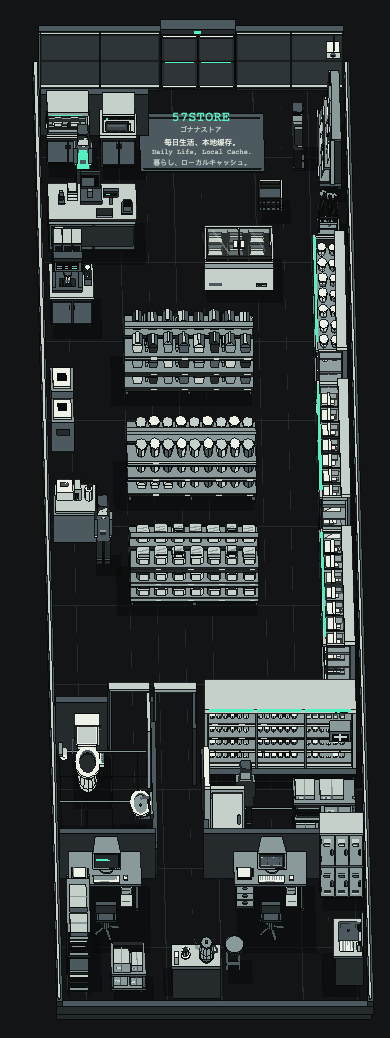
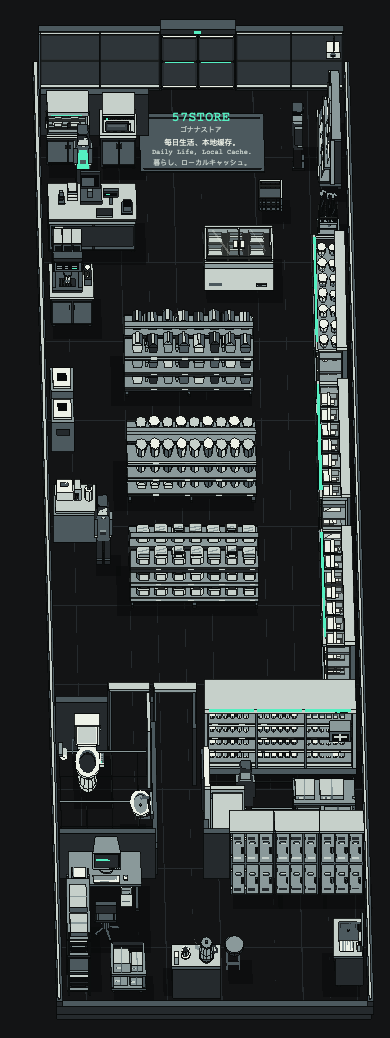
Replace the right workstation with locker banks and unify green links

Changed region(s): [[0.5846, 0.7707, 0.9231, 0.894]]

diff --git a/store/visit.js b/store/visit.js
@@ -1,4 +1,4 @@
-/* Local, touch-first inspections. The three destinations remain normal anchors. */
+/* Local, touch-first inspections. Destinations remain normal anchors. */
 (()=>{
  const room=document.querySelector('.room');if(!room)return;
  const html=document.documentElement,note=room.querySelector('#room-note');

diff --git a/site-assets/links.css b/site-assets/links.css
@@ -1,0 +1,5 @@
+/* Shared text-link treatment, including legacy WordPress inline link styles. */
+body:is(.store-receipt,.store-sys,.store-cctv,.store-cache,.store-fragment) a:any-link{
+  color:var(--wp--preset--color--secondary,#55efc1)!important;
+  text-decoration:none!important;
+}

diff --git a/store/plan.py b/store/plan.py
@@ -141,15 +141,15 @@ def assemble(Scene):
     fan.box(0,0,1.70,.46,.24,.28,'steel');fan.quad([(.04,.245,1.74),(.42,.245,1.74),(.42,.245,1.94),(.04,.245,1.94)],'ink',double=True)
     f=fan.part('fan-blades','fan-spin');f.quad([(.20,.25,1.74),(.26,.25,1.74),(.26,.25,1.94),(.20,.25,1.94)],'paper',double=True)
     f.quad([(.09,.25,1.81),(.37,.25,1.81),(.37,.25,1.87),(.09,.25,1.87)],'paper',double=True)
-    # Only one compact staff room. A straight entrance remains between two desks.
+    # Only one compact staff room. A straight entrance separates the single desk and the locker wall.
     staff=s.model('staff-room',.25,REAR_Y+2.90)
     staff.box(0,0,0,2.13,.12,1.25,'dark');staff.box(3.18,0,0,3.55,.12,1.25,'dark')
     entrance=bare('staff-door',2.42,REAR_Y,'员工门','内部工作区。',(.93,.14))
     entrance.box(0,0,0,.07,.16,1.75,'steel');entrance.box(.87,0,0,.07,.16,1.75,'steel');entrance.box(0,0,1.69,.94,.16,.07,'mid')
     entrance.box(.85,.12,.03,.07,.82,1.59,'dark');entrance.box(.84,.70,.84,.04,.07,.035,'mint')
     place('sys','sys_desk',.43,REAR_Y+3.07,'店务终端','内部系统，等待操作。',(1.65,1.45),rear=True,href='/sys/',target=(1.28,REAR_Y+3.55,1.16,138,140))
-    place('cctv','cctv_desk',4.08,REAR_Y+3.07,'监控电脑','六路摄像头正在记录。',(1.65,1.45),rear=True,href='/cctv/',target=(4.93,REAR_Y+3.55,1.16,138,140))
-    place('lockers','lockers',5.98,REAR_Y+3.06,'员工储物柜','六格独立柜，放制服与私人物品。',(1,.5),rear=True)
+    for index,x in enumerate((4.01,5.00,5.99),1):
+        place(f'lockers-{index}','lockers',x,REAR_Y+3.00,f'员工储物柜 {index:02d}','六格独立柜，放制服与私人物品。',(1,.5),rear=True)
     place('stock','stockrack',.36,REAR_Y+5.72,'后场库存','箱子沿墙码好，通道留空。',(1.4,.55),rear=True,rotation=-90)
     place('cart','cart',1.32,REAR_Y+5.15,'收货推车','等待核对的纸箱。',(.8,.55),rear=True)
     place('utility','utility',6.94,REAR_Y+4.65,'工作水槽','器具清洗与简单备餐。',(.9,.7),rear=True,rotation=90)

diff --git a/tests/test_store_geometry.py b/tests/test_store_geometry.py
@@ -114,12 +114,26 @@ class FullStoreSceneTests(unittest.TestCase):
         self.assertLessEqual(colors,COLORS)
         self.assertFalse(self.controls.select('img, image, iframe, script'))
 
-    def test_full_scene_has_exactly_the_three_requested_destinations(self):
+    def test_full_scene_links_directly_to_receipt_and_sys(self):
         anchors=self.controls.select('a[href]')
-        self.assertEqual(len(anchors),3)
-        self.assertEqual({anchor['href'] for anchor in anchors},{'/receipt/','/sys/','/cctv/'})
+        self.assertEqual(len(anchors),2)
+        self.assertEqual({anchor['href'] for anchor in anchors},{'/receipt/','/sys/'})
         self.assertTrue(all(anchor.get('aria-label','').strip() for anchor in anchors))
+        self.assertFalse(self.controls.select('.room-console'))
         self.assertTrue(self.output['description'].strip())
+
+    def test_back_office_has_one_left_computer_and_three_locker_banks(self):
+        owners={element.get('data-owner') for element in self.svg.iter() if element.get('data-owner')}
+        computers={element.get('data-owner') for element in self.svg.iter() if element.get('data-piece')=='crt-housing'}
+        locker_doors={(element.get('data-owner'),element.get('data-piece')) for element in self.svg.iter() if element.get('data-piece','').startswith('locker-door-')}
+        lockers={owner for owner,_ in locker_doors}
+        self.assertEqual(computers,{'sys'})
+        self.assertIn('sys',owners)
+        self.assertNotIn('cctv',owners)
+        self.assertFalse(self.controls.select('[data-object="cctv"]'))
+        self.assertEqual(lockers,{'lockers-1','lockers-2','lockers-3'})
+        for owner in lockers:
+            self.assertEqual(sum(bank==owner for bank,_ in locker_doors),6,'Each bank retains six visible compartments')
 
 
 if __name__=='__main__':unittest.main()

diff --git a/store/scene.py b/store/scene.py
@@ -30,5 +30,5 @@ def render():
         else:
             controls.append(f'<button {common} type="button" data-note-title="{escape(item["label"])}" data-note="{escape(item["note"])}" aria-expanded="false" aria-controls="room-note" hidden><span class="sr-only">{escape(item["label"])}</span></button>')
     controls.append('<aside id="room-note" class="room-note" role="status" hidden><strong></strong><span></span></aside>')
-    description='57store 夜班便利店。入口在画面上方，收银台邻近门口，三座中央双面货架两侧保留顾客通道，冷柜沿外围布置。后侧公共过道分别进入厕所和员工门；厕所水箱靠墙、门与洗手位错开。饮料柜背后是有独立保温门的补货冷藏间。末端仅有一个紧凑员工区，SYS 与 CCTV 电脑都是内部设备，桌柜靠墙、操作面朝通路。点按物件可看简短说明。'
+    description='57store 夜班便利店。入口在画面上方，收银台邻近门口，三座中央双面货架两侧保留顾客通道，冷柜沿外围布置。后侧公共过道分别进入厕所和员工门；厕所水箱靠墙、门与洗手位错开。饮料柜背后是有独立保温门的补货冷藏间。末端仅有一个紧凑员工区，左侧店务电脑直接进入 SYS，再由 SYS 进入 CCTV；右侧为整排员工储物柜。桌柜靠墙、操作面朝通路。点按物件可看简短说明。'
     return {'svg':scene.svg(),'controls':''.join(controls),'description':description}

diff --git a/tests/test_build.py b/tests/test_build.py
@@ -26,7 +26,7 @@ class BuildTests(unittest.TestCase):
             for name in ('page.html','card.html'):shutil.copyfile(ROOT/board/name,self.root/board/name)
         (self.root/'store').mkdir()
         (self.root/'store/page.html').write_text('<main><h1>{{scene_description}}</h1>{{scene_svg}}<nav>{{scene_controls}}</nav></main>')
-        (self.root/'store/scene.py').write_text('def render():\n    return {"svg": \'<svg role="img" aria-label="A store" viewBox="0 0 100 100"><rect width="100" height="100"/></svg>\', "controls": \'<a href="/receipt/">Receipt</a><a href="/sys/">SYS</a><a href="/cctv/">CCTV</a>\', "description": "A night store"}\n')
+        (self.root/'store/scene.py').write_text('def render():\n    return {"svg": \'<svg role="img" aria-label="A store" viewBox="0 0 100 100"><rect width="100" height="100"/></svg>\', "controls": \'<a href="/receipt/">Receipt</a><a href="/sys/">SYS</a>\', "description": "A night store"}\n')
         (self.root/'store/style.css').write_text('body { margin:0; }')
         (self.root/'store/visit.js').write_text('document.documentElement.dataset.storeReady = "true";')
         (self.root/'site-data').mkdir();(self.root/'site-data/content.json').write_text(json.dumps({'retained_posts':{},'assets':[]}))

diff --git a/scripts/check.py b/scripts/check.py
@@ -32,8 +32,8 @@ def check(root=ROOT, output=None, base_path=''):
     if not home.select_one(f'script[src^="{base}/store/visit.js"]'):
         errors.append('Store homepage is missing its local visit controls')
     home_routes={urlsplit(link['href']).path for link in home.select('a[href]') if urlsplit(link['href']).path and not urlsplit(link['href']).scheme and not urlsplit(link['href']).netloc}
-    if home_routes!={base+'/receipt/',base+'/sys/',base+'/cctv/'}:
-        errors.append('Store homepage must link only to receipt, SYS and CCTV')
+    if home_routes!={base+'/receipt/',base+'/sys/'}:
+        errors.append('Store homepage must link only to receipt and SYS')
     for key,unit in [('revisions','entries'),('receipts','receipts')]:
         slots=ticket.select(f'[data-store-stat="{key}"]')
         if len(slots)!=1 or slots[0].get_text(strip=True)!=f'{stats[key]:,} {unit}':

diff --git a/tests/test_site_modules.py b/tests/test_site_modules.py
@@ -31,7 +31,7 @@ class SiteModuleTests(unittest.TestCase):
         self.assertEqual(ticket.select_one('link[rel=canonical]')['href'],SITE_URL+'/receipt/')
         self.assertFalse(entrance.select('.wp-site-blocks, .store-terminal-header'))
         self.assertEqual([urlsplit(a['href']).path for a in entrance.select('a[href]')],
-                         ['/preview/receipt/','/preview/sys/','/preview/cctv/'])
+                         ['/preview/receipt/','/preview/sys/'])
         self.assertTrue(entrance.select_one('svg[role=img][aria-label]'))
         self.assertFalse(entrance.select('[data-store-stat]'))
         self.assertTrue(ticket.select_one('.wp-site-blocks'))

diff --git a/scripts/build.py b/scripts/build.py
@@ -240,6 +240,7 @@ def build(root=ROOT, output=None, base_path=''):
             if el.get('style'):el['style']=rewrite_css(el['style'],base)
         styles=[]
         resources=['store/style.css'] if kind=='home' else ['site-assets/base.css','site-assets/terminal.css' if kind in {'sys','cctv'} else kind+'/style.css']
+        if kind!='home':resources.append('site-assets/links.css')
         for resource in resources:
             path=root/resource;version='?v='+digest(path)[:12]
             styles.append(f'<link rel="stylesheet" href="{base}/{resource}{version}">')

diff --git a/README.md b/README.md
@@ -45,7 +45,7 @@ Source for [57store.fivsevn.com](https://57store.fivsevn.com/), a narrative exte
 
 | Public route | Editable source | Purpose |
 |---|---|---|
-| `/` | `store/page.html`, `store/scene.py` | Standalone store entrance; links to receipt, SYS and CCTV |
+| `/` | `store/page.html`, `store/scene.py` | Standalone store entrance; receipt and SYS, with CCTV inside SYS |
 | `/receipt/` | `receipt/page.html` | Original night-store receipt and its navigation |
 | `/fragment/` | `fragment/page.html` | Independent image page |
 | `/cache/` | `cache/page.html`, `cache/posts.json` | Continuous conversation with an inline access prompt |
@@ -70,7 +70,7 @@ See the [store scene guide](store/README.md) for its layout, code-drawn fixtures
 
 SYS saves the exact upload commit instant in Asia/Shanghai. A durable `.publishing/sys.json` ledger tracks source commits and package identities; retries preserve later title, body and visibility edits. Merge commits do not duplicate uploads already introduced by their parents. Empty bodies, deletions and configuration-only changes do not create logs.
 
-CCTV follows the channel's complete public uploads playlist, including continuation pages, and verifies exact publication instants. Each video ID appears once; time and ordering come from YouTube. Future discovery checks all saved records, including hidden ones, so hiding a room cannot cause it to be imported again. A saved room's edited title and notes are independent of later discovery. Video files are played through YouTube embeds. SYS and CCTV own their `page.html` and `card.html`, and share `templates/terminal-header.html` and `site-assets/terminal.css`, preserving the original compact WordPress interior and centered frame. A plain green `SESSION: [ EXIT ]` returns to the entrance. Pagination follows Fieldlog's compact numbers and « / » arrows inside the frame; arrows move to the immediately previous or next page.
+CCTV follows the channel's complete public uploads playlist, including continuation pages, and verifies exact publication instants. Each video ID appears once; time and ordering come from YouTube. Future discovery checks all saved records, including hidden ones, so hiding a room cannot cause it to be imported again. A saved room's edited title and notes are independent of later discovery. Video files are played through YouTube embeds. SYS and CCTV own their `page.html` and `card.html`, and share `templates/terminal-header.html` and `site-assets/terminal.css`, preserving the original compact WordPress interior and centered frame. A plain green `SESSION: [ EXIT ]` returns to the entrance. Shared `site-assets/links.css` keeps authored text links green without underlines, including hover and visited states. Pagination follows Fieldlog's compact numbers and « / » arrows inside the frame; arrows move to the immediately previous or next page.
 
 Saved SYS/CCTV posts use the shared [site-post profile](https://github.com/fivsevn-agy/fivsevn-spec/blob/main/content/spec-content-site-post-001.md): `module: 57store`, `submodule: sys` or `cctv`, precise `extra.published_at`, and `extra.video_ids` for CCTV. Publication requires both `visibility: public` and a published status. These controls exclude records from website output; the source repository itself is public.
 

diff --git a/store/README.md b/store/README.md
@@ -4,7 +4,7 @@ The root route is one self-contained, code-drawn room. There are no downloaded
 sprites, raster textures, scene images, remote fonts, browser 3D engine or
 production JavaScript dependencies.
 
-- `plan.py`: metre-space layout, fixtures, small inspection notes, three routes.
+- `plan.py`: metre-space layout, fixtures, small inspection notes, two routes.
 - `shop.py`, `back.py`: original solid geometry for merchandise, equipment and people.
 - `mesh.py`: fixed eight-colour palette, parallel projection, pixel snapping,
   depth ordering and removal of completely concealed stationary surfaces.
@@ -15,26 +15,28 @@ The upper entrance leads to checkout, baskets, umbrellas and a wall magazine
 rack. Three double-sided rows have continuous public aisles on both sides.
 Cold cases follow the east wall. The rear public aisle reaches the toilet and
 a separate employee door. A service passage connects the one compact staff
-room and the cold room behind the rear-stock drink cabinet. SYS and CCTV are
-internal computers. Walls are cut away for visibility; their floor contacts
-remain in the same three-dimensional coordinate system as the equipment.
+room and the cold room behind the rear-stock drink cabinet. The left-hand
+internal computer opens SYS, whose module selection also opens CCTV. The
+right-hand wall holds three six-door locker banks. Walls are cut away for
+visibility; their floor contacts remain in the same three-dimensional
+coordinate system as the equipment.
 
 Brand lettering and the three slogans are woven into the entrance mat. Other
 floor surfaces contain no explanatory text. Tap objects for a short local note;
-the receipt printer and two internal screens are the only page destinations.
+the receipt printer and the single internal SYS screen are the two page destinations.
 
 ## Motion and access
 
-Eighteen named motion hooks cover the sliding doors, sensor, POS text, receipt
+Seventeen named motion hooks cover the sliding doors, sensor, POS text, receipt
 paper, hot-case lamp, coffee steam, case lights, glass reflections, drink lights,
-camera head, cold-room fan, SYS typing, CCTV scan, kettle steam, and small human
+camera head, cold-room fan, SYS typing, kettle steam, and small human
 movements. Offscreen and hidden-page activity pauses. The operating system's
 reduced-motion preference disables them. A deliberate `?motion=on` preview
 choice enables motion and is remembered locally; `?motion=off` clears it.
 No permanent settings panel or decorative site chrome is added to the room.
 
 Inspection cards support touch, keyboard, Escape and outside-tap dismissal.
-They stay within the current viewport. All three route links work without
+They stay within the current viewport. Both route links work without
 JavaScript. Inspectable controls are revealed only after their handlers exist.
 
 ## Build and browser checks
